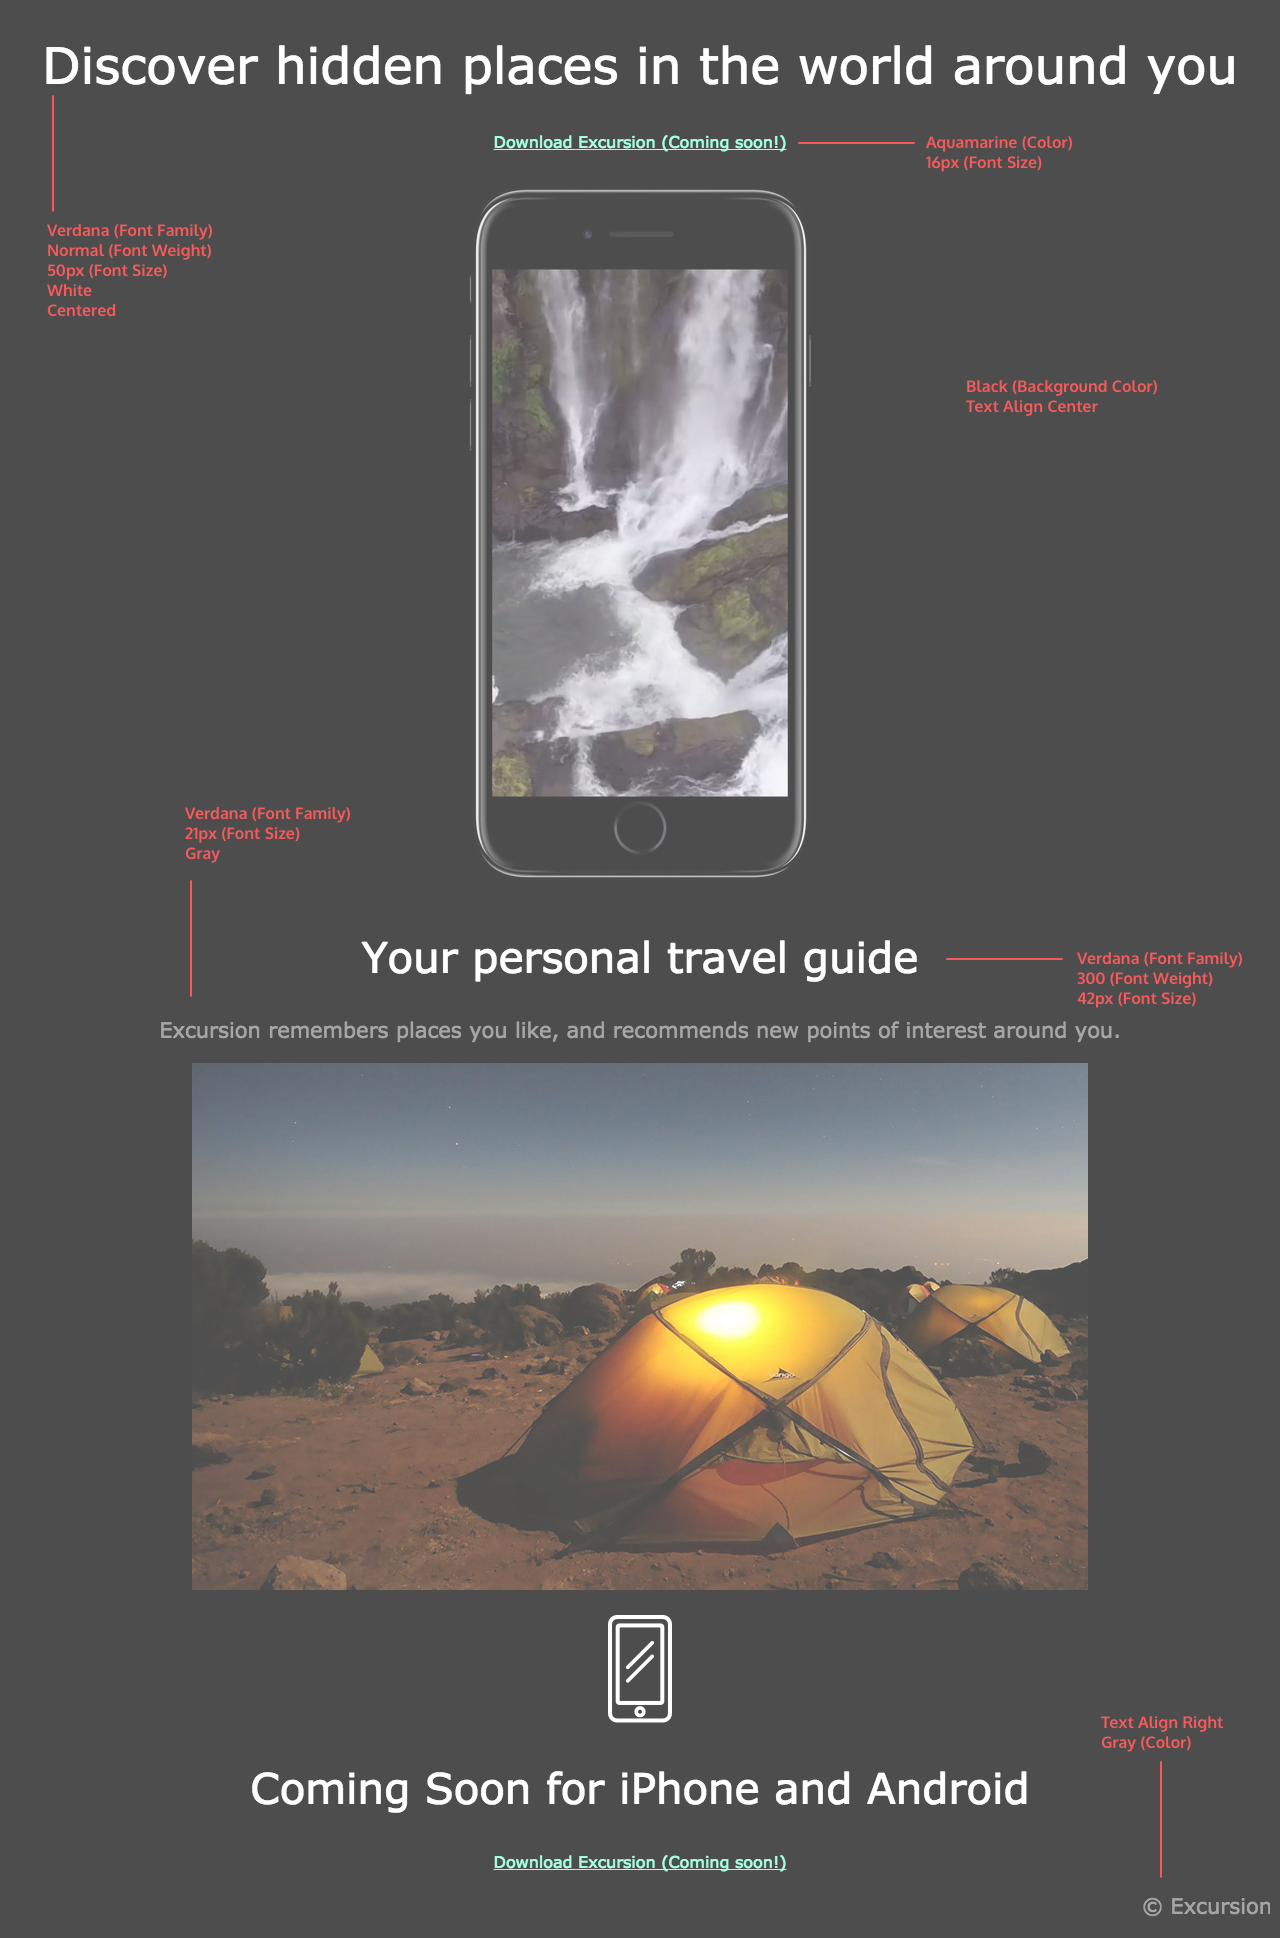
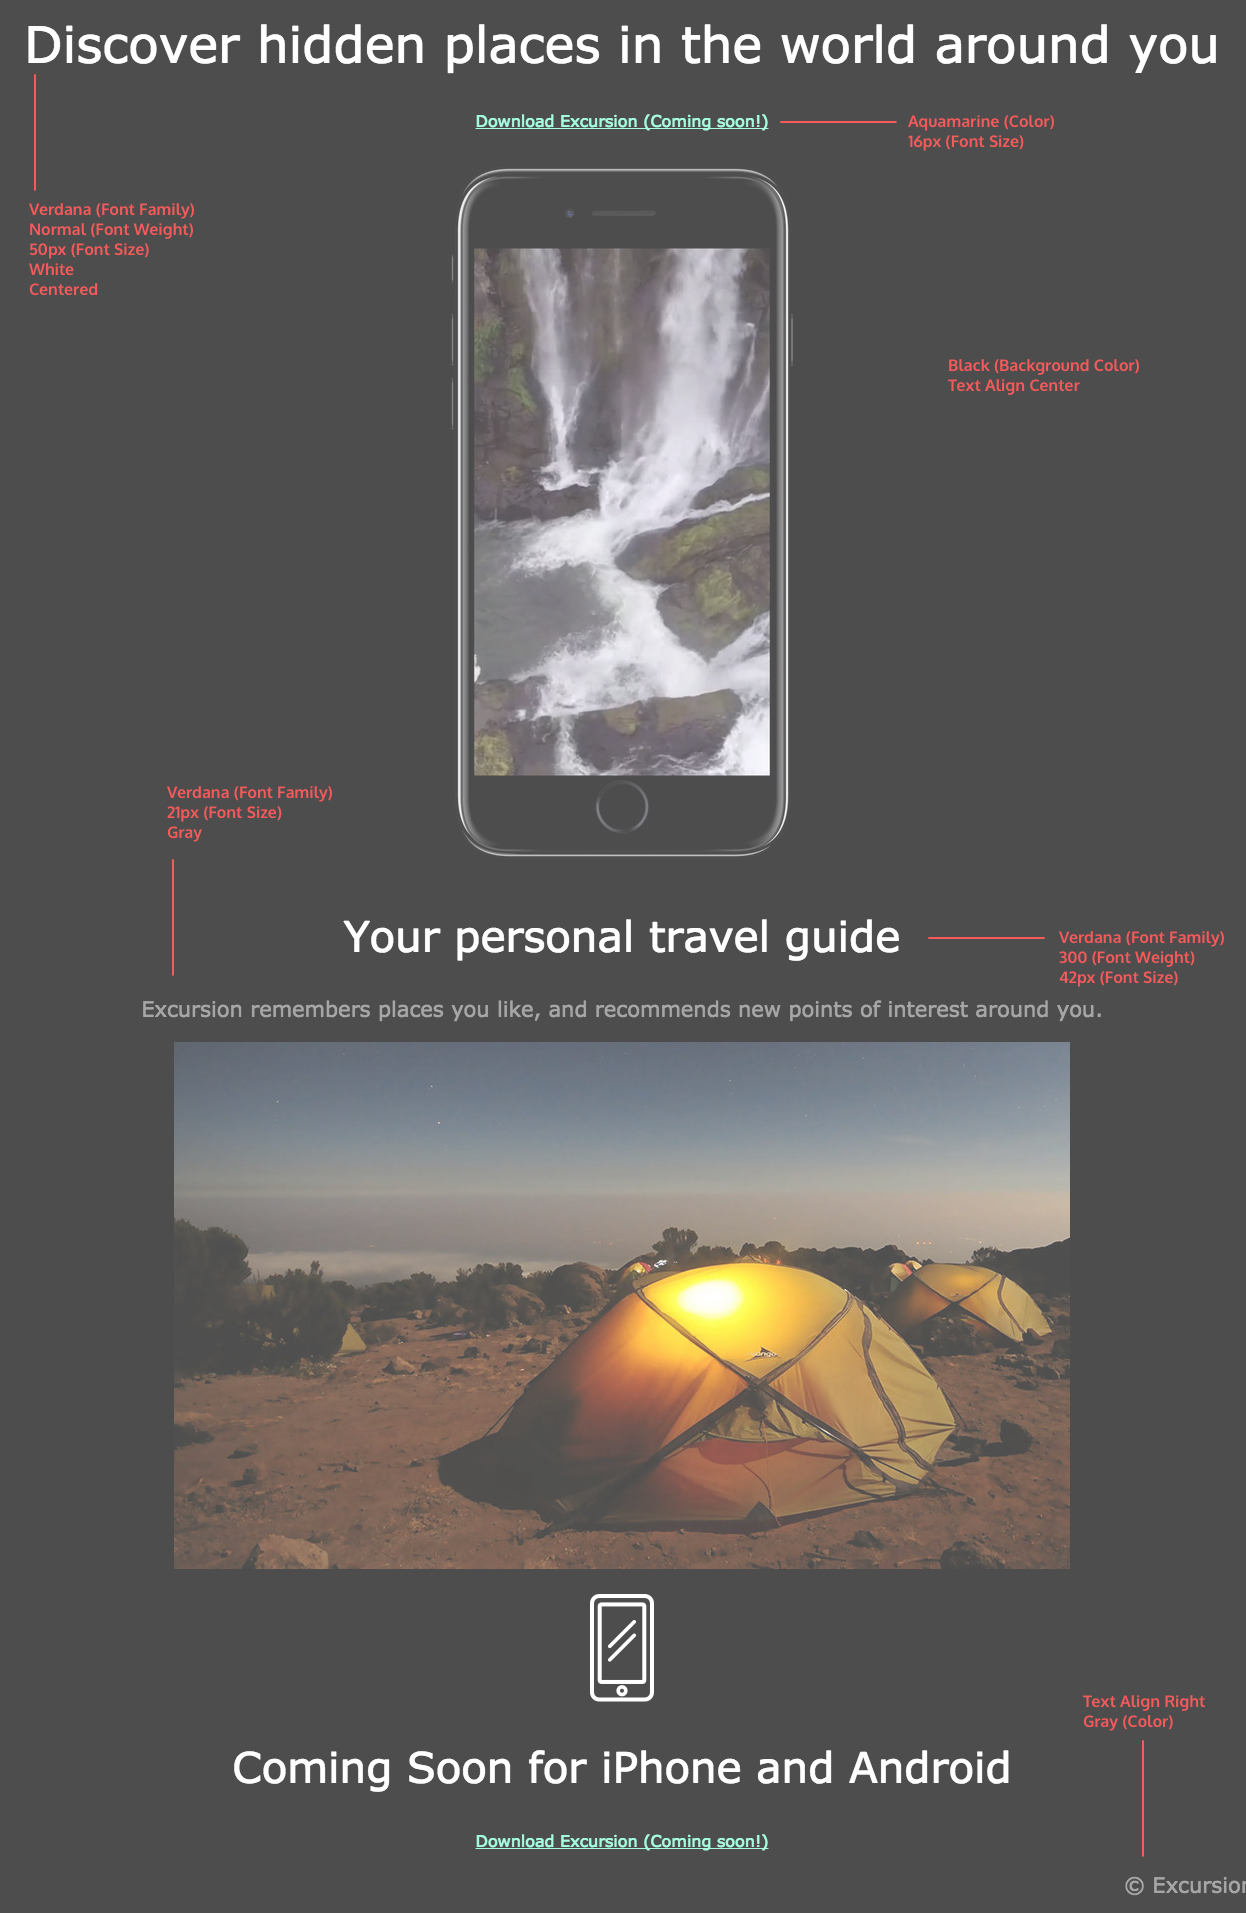
Made redline changes

diff --git a/css/style.css b/css/style.css
@@ -1,5 +1,5 @@
 * {
-  font-family: sans-serif;
+  font-family: Verdana, sans-serif;
   text-align: center;
 }
 
@@ -12,18 +12,31 @@ body {
   background-color: black;
 }
 
+h1, h2, h3, h4, h5, h6 {
+    color: white;
+}
+
 h1 {
-  color: white;
-  font-size: 4em;
-  font-weight: bold;
+  font-size: 50px;
+  font-weight: normal;
+}
+
+h2 {
+  font-size: 42px;
+  font-weight: 300;
+}
+
+p {
+  color: gray;
+  font-size: 21px;
 }
 
 p.download a {
   color: Aquamarine;
   text-decoration: underline;
+  font-size: 16px;
 }
 
-p {
-  color: gray;
-  font-size: 1.2em;
+p.copyright {
+  text-align: right;
 }

diff --git a/index.html b/index.html
@@ -15,7 +15,7 @@
       </video>
     </div>
 
-    <h1>Your personal travel guide.</h1>
+    <h2>Your personal travel guide.</h2>
     <p>Excursion remembers places you like, and recommends new points of
       interest around you.</p>
 
@@ -24,9 +24,9 @@
       <img src="./img/phone.png" alt="Phone Icon">
     </div>
 
-    <h1>Coming Soon for iPhone and Android</h1>
+    <h2>Coming Soon for iPhone and Android</h2>
     <p class="download"><a href="http://bit.ly/2s9I74V">Download Excursion (Coming soon!)</a></p>
-
+    <p class="copyright">© Excursion</p>
 
 
   </body>
